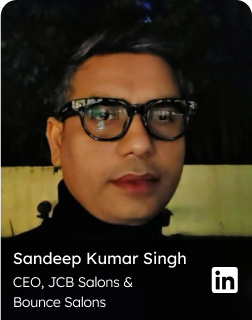
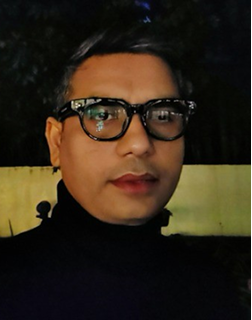
ui changes UAT

diff --git a/src/components/ServiceSection.tsx b/src/components/ServiceSection.tsx
@@ -48,7 +48,7 @@ interface ServiceSectionProps extends ServiceContent {
   isCareersPage?: boolean;
   isPricingPlanPage?: boolean;
   setSelectedPlan?: React.Dispatch<React.SetStateAction<string>>;
-  certificate?: any
+  certificate?: any;
 }
 
 const ServiceSection = ({
@@ -105,7 +105,7 @@ const ServiceSection = ({
   isPricingPage,
   isPricingPlanPage,
   setSelectedPlan,
-  certificate
+  certificate,
 }: ServiceSectionProps) => {
   return (
     <div className={`${bgColour ? bgColour : "bg-[#08090A]"} md:px-[80px]`}>
@@ -113,7 +113,9 @@ const ServiceSection = ({
         <div className="mt-[40px] md:mt-[60px] h-[1px] w-full bg-[linear-gradient(270deg,#282828_0%,#FFFFFF_50%,#282828_100%)]"></div>
       )}
       <div
-        className={`flex flex-col md:gap-6 gap-4 items-center justify-center ${tagLine === 'Governance & Recognition' ? "mt-[64px] md:mt-0" : ""} py-[32px] max-w-[1350px] mx-auto max-md:px-5 ${
+        className={`flex flex-col md:gap-6 gap-4 items-center justify-center ${
+          tagLine === "Governance & Recognition" ? "mt-[64px] md:mt-0" : ""
+        } py-[32px] max-w-[1350px] mx-auto max-md:px-5 ${
           isPricingPage || isPricingPlanPage
             ? "md:py-[64px]"
             : isCareersPage && !companyValuesItems
@@ -127,7 +129,9 @@ const ServiceSection = ({
         )}
         {Customtitle && (
           <h1
-            className={`${tagLine === 'Governance & Recognition' ? '': 'max-md:pt-[80px]'} font-[300] md:font-medium text-[24px] md:text-[72px] md:leading-[90px] leading-[30px] text-center md:tracking-[-3px] bg-clip-text text-transparent`}
+            className={`${
+              tagLine === "Governance & Recognition" ? "" : "max-md:pt-[80px]"
+            } font-[300] md:font-medium text-[24px] md:text-[72px] md:leading-[90px] leading-[30px] text-center md:tracking-[-3px] bg-clip-text text-transparent`}
             style={{
               background: "linear-gradient(90deg, #F08B32 59.38%, #FFF 96.86%)",
               WebkitBackgroundClip: "text", // For Safari and some Webkit browsers
@@ -336,16 +340,16 @@ const ServiceSection = ({
         )}
         {mentorsCard && (
           <>
-          <p className="font-[500] text-[32px] leading-[32px] text-[#FFFFFF] text-left">
+            <p className="font-[500] text-[32px] leading-[32px] text-[#FFFFFF] self-start">
               Well-Wishers & Advisors{" "}
             </p>
-          <div className="">
-            <div className="grid grid-cols-1 lg:grid-cols-2 !gap-6 w-full">
-              {mentorsCard?.map((team, index) => (
-                <MentorsCard key={index} {...team} />
-              ))}
+            <div className="">
+              <div className="grid grid-cols-1 lg:grid-cols-2 !gap-6 w-full">
+                {mentorsCard?.map((team, index) => (
+                  <MentorsCard key={index} {...team} />
+                ))}
+              </div>
             </div>
-          </div>
           </>
         )}
         {investors && (
@@ -403,19 +407,19 @@ const ServiceSection = ({
         )}
         {companyValuesItems && (
           <div className="md:flex md:flex-col md:gap-[42px] items-center">
-            <div className="grid grid-cols-1 md:grid-cols-4 md:gap-6 w-full items-start">
+            <div className="grid grid-cols-1 md:grid-cols-4 md:gap-6 w-full items-start md:flex-row">
               {companyValuesItems.slice(0, 4).map((team, index) => (
                 <ValueCard
                   key={index}
                   {...team}
                   customLength={true}
-                  hidetopBorder={true}
+                  // hidetopBorder={true}
                 />
               ))}
             </div>
             <div className="flex flex-col md:flex-row md:gap-6 md:w-[100%] items-start ">
               {companyValuesItems.slice(4, 7).map((team, index) => (
-                <ValueCard key={index + 3} {...team} customLength={true} />
+                <ValueCard key={index} {...team} customLength={true} />
               ))}
             </div>
           </div>
@@ -553,11 +557,11 @@ const ServiceSection = ({
           ))}
         </div>
       )}
-      {certificate &&
+      {certificate && (
         <div className="md:pb-[100px] pb-[60px]">
-          <CertificationGrid certificate={certificate}/>
+          <CertificationGrid certificate={certificate} />
         </div>
-      }
+      )}
 
       {showGreyBoderLine && (
         <div className="h-[1px] w-full bg-[linear-gradient(270deg,#282828_0%,#FFFFFF_50%,#282828_100%)]"></div>

diff --git a/src/components/FoundingTeamCard.tsx b/src/components/FoundingTeamCard.tsx
@@ -2,28 +2,44 @@
 import { TeamMember } from "@/interface/type";
 import Image from "next/image";
 import { FC } from "react";
+import ProfileCard from "./ProfileCard";
 
 const FoundingTeamCard: FC<TeamMember> = ({
   imageSrc,
   description,
   linkedInUrl,
   isColoured = false, // Default to false if not provided
-  isRadius = false
+  name,
+  title,
 }) => {
   return (
-    <div className={`text-white shadow-md w-full ${isColoured ? "p-[6px] rounded-3xl md:rounded-2xl bg-[#15181B]" : ""}`}>
-      <div className={`relative ${isRadius ? 'rounded-2xl' : ''} w-full overflow-hidden`}>
-        <a href={linkedInUrl} target="_blank" rel="noopener noreferrer">
-          <Image
-            src={imageSrc}
-            alt={"Team Member"}
-            width={591}
-            height={471}
-            priority
-          />
-        </a>
+    <div
+      className={`text-white shadow-md w-full ${
+        isColoured ? "p-[6px] rounded-3xl md:rounded-2xl bg-[#15181B]" : ""
+      }`}
+    >
+      <div className={`relative w-full overflow-hidden rounded-2xl`}>
+        <Image
+          src={imageSrc}
+          alt={"Team Member"}
+          width={591}
+          height={471}
+          priority
+        />
+        <ProfileCard
+          name={name}
+          title={title}
+          linkedinUrl={linkedInUrl}
+          isColoured={isColoured}
+        />
       </div>
-      <p className={`text-[13px] font-[300] leading-[20px] md:leading-[26px] text-[#E4E4E7] mt-4 whitespace-pre-line ${isColoured ? "p-3 md:p-1.5 md:text-[14px] md:min-h-[240px]" : "md:text-[20px] "}`}>
+      <p
+        className={`text-[13px] font-[300] leading-[20px] md:leading-[26px] text-[#E4E4E7] mt-4 whitespace-pre-line ${
+          isColoured
+            ? "p-3 md:p-1.5 md:text-[14px] md:min-h-[240px]"
+            : "md:text-[20px] "
+        }`}
+      >
         {description}
       </p>
     </div>

diff --git a/src/components/MentorsCard.tsx b/src/components/MentorsCard.tsx
@@ -2,27 +2,41 @@
 import { TeamMember } from "@/interface/type";
 import Image from "next/image";
 import { FC } from "react";
+import ProfileCard from "./ProfileCard";
 
 const MentorsCard: FC<TeamMember> = ({
   imageSrc,
   description,
   linkedInUrl,
+  name,
+  title,
+  // isColoured
 }) => {
   return (
-    <div className={`text-white rounded-2xl shadow-md w-full grid md:grid-cols-2 gap-5 p-0 md:p-5 md:bg-[#15181B]`}>
-      <div className="relative w-full overflow-hidden">
-        <a href={linkedInUrl} target="_blank" rel="noopener noreferrer">
-          <Image
-            src={imageSrc}
-            alt={"Team Member"}
-            width={312}
-            height={330}
-            priority
-            className="h-full w-full md:w-[312px] md:h-[330px]"
+    <div
+      className={`text-white rounded-2xl shadow-md w-full grid md:grid-cols-2 gap-5 p-0 md:p-5 md:bg-[#15181B]`}
+    >
+      <div className="relative w-full overflow-hidden rounded-2xl">
+        <Image
+          src={imageSrc}
+          alt={"Team Member"}
+          width={312}
+          height={330}
+          priority
+          className="h-full w-full md:w-[312px] md:h-[330px]"
+        />
+        {name && (
+          <ProfileCard
+            name={name}
+            title={title}
+            linkedinUrl={linkedInUrl}
+            // isColoured={isColoured}
           />
-        </a>
+        )}
       </div>
-      <p className={`text-[13px] md:text-[20px] font-[300] leading-[20px] md:leading-[26px] text-[#E4E4E7] whitespace-pre-line`}>
+      <p
+        className={`text-[13px] md:text-[20px] font-[300] leading-[20px] md:leading-[26px] text-[#E4E4E7] whitespace-pre-line`}
+      >
         {description}
       </p>
     </div>

diff --git a/src/components/ProfileCard.tsx b/src/components/ProfileCard.tsx
@@ -1,0 +1,49 @@
+import Image from "next/image";
+import React from "react";
+
+type ProfileCardProps = {
+  name?: string;
+  title?: string;
+  linkedinUrl?: string;
+  isColoured?: boolean;
+};
+
+const ProfileCard: React.FC<ProfileCardProps> = ({
+  name,
+  title,
+  linkedinUrl,
+  isColoured,
+}) => {
+  return (
+    <div
+      className="flex items-center justify-between bg-[#00000080] backdrop-blur-lg overflow-hidden
+ text-white p-2 w-full absolute bottom-0"
+    >
+      <div className="flex flex-col gap-1 !w-[80%]">
+        <h2 className={`${isColoured ? "text-sm" : "text-2xl"} font-normal`}>
+          {name}
+        </h2>
+        <p className={`${isColoured ? "text-xs" : "text-lg"} font-light`}>
+          {title}
+        </p>
+      </div>
+      <div className={`!w-[20%] flex justify-end`}>
+        <a
+          href={linkedinUrl}
+          target="_blank"
+          rel="noopener noreferrer"
+          className=""
+        >
+          <Image
+            src={"linkedIn.svg"}
+            alt="Icon"
+            width={`${isColoured ? 26 : 40}`}
+            height={`${isColoured ? 26 : 40}`}
+          />
+        </a>
+      </div>
+    </div>
+  );
+};
+
+export default ProfileCard;

diff --git a/src/interface/type.ts b/src/interface/type.ts
@@ -163,7 +163,8 @@ export interface TeamMember {
   description: string;
   linkedInUrl?: string;
   isColoured?: boolean;
-  isRadius?: boolean;
+  name?: string;
+  title?: string;
 }
 
 export interface MissionSectionContent {
